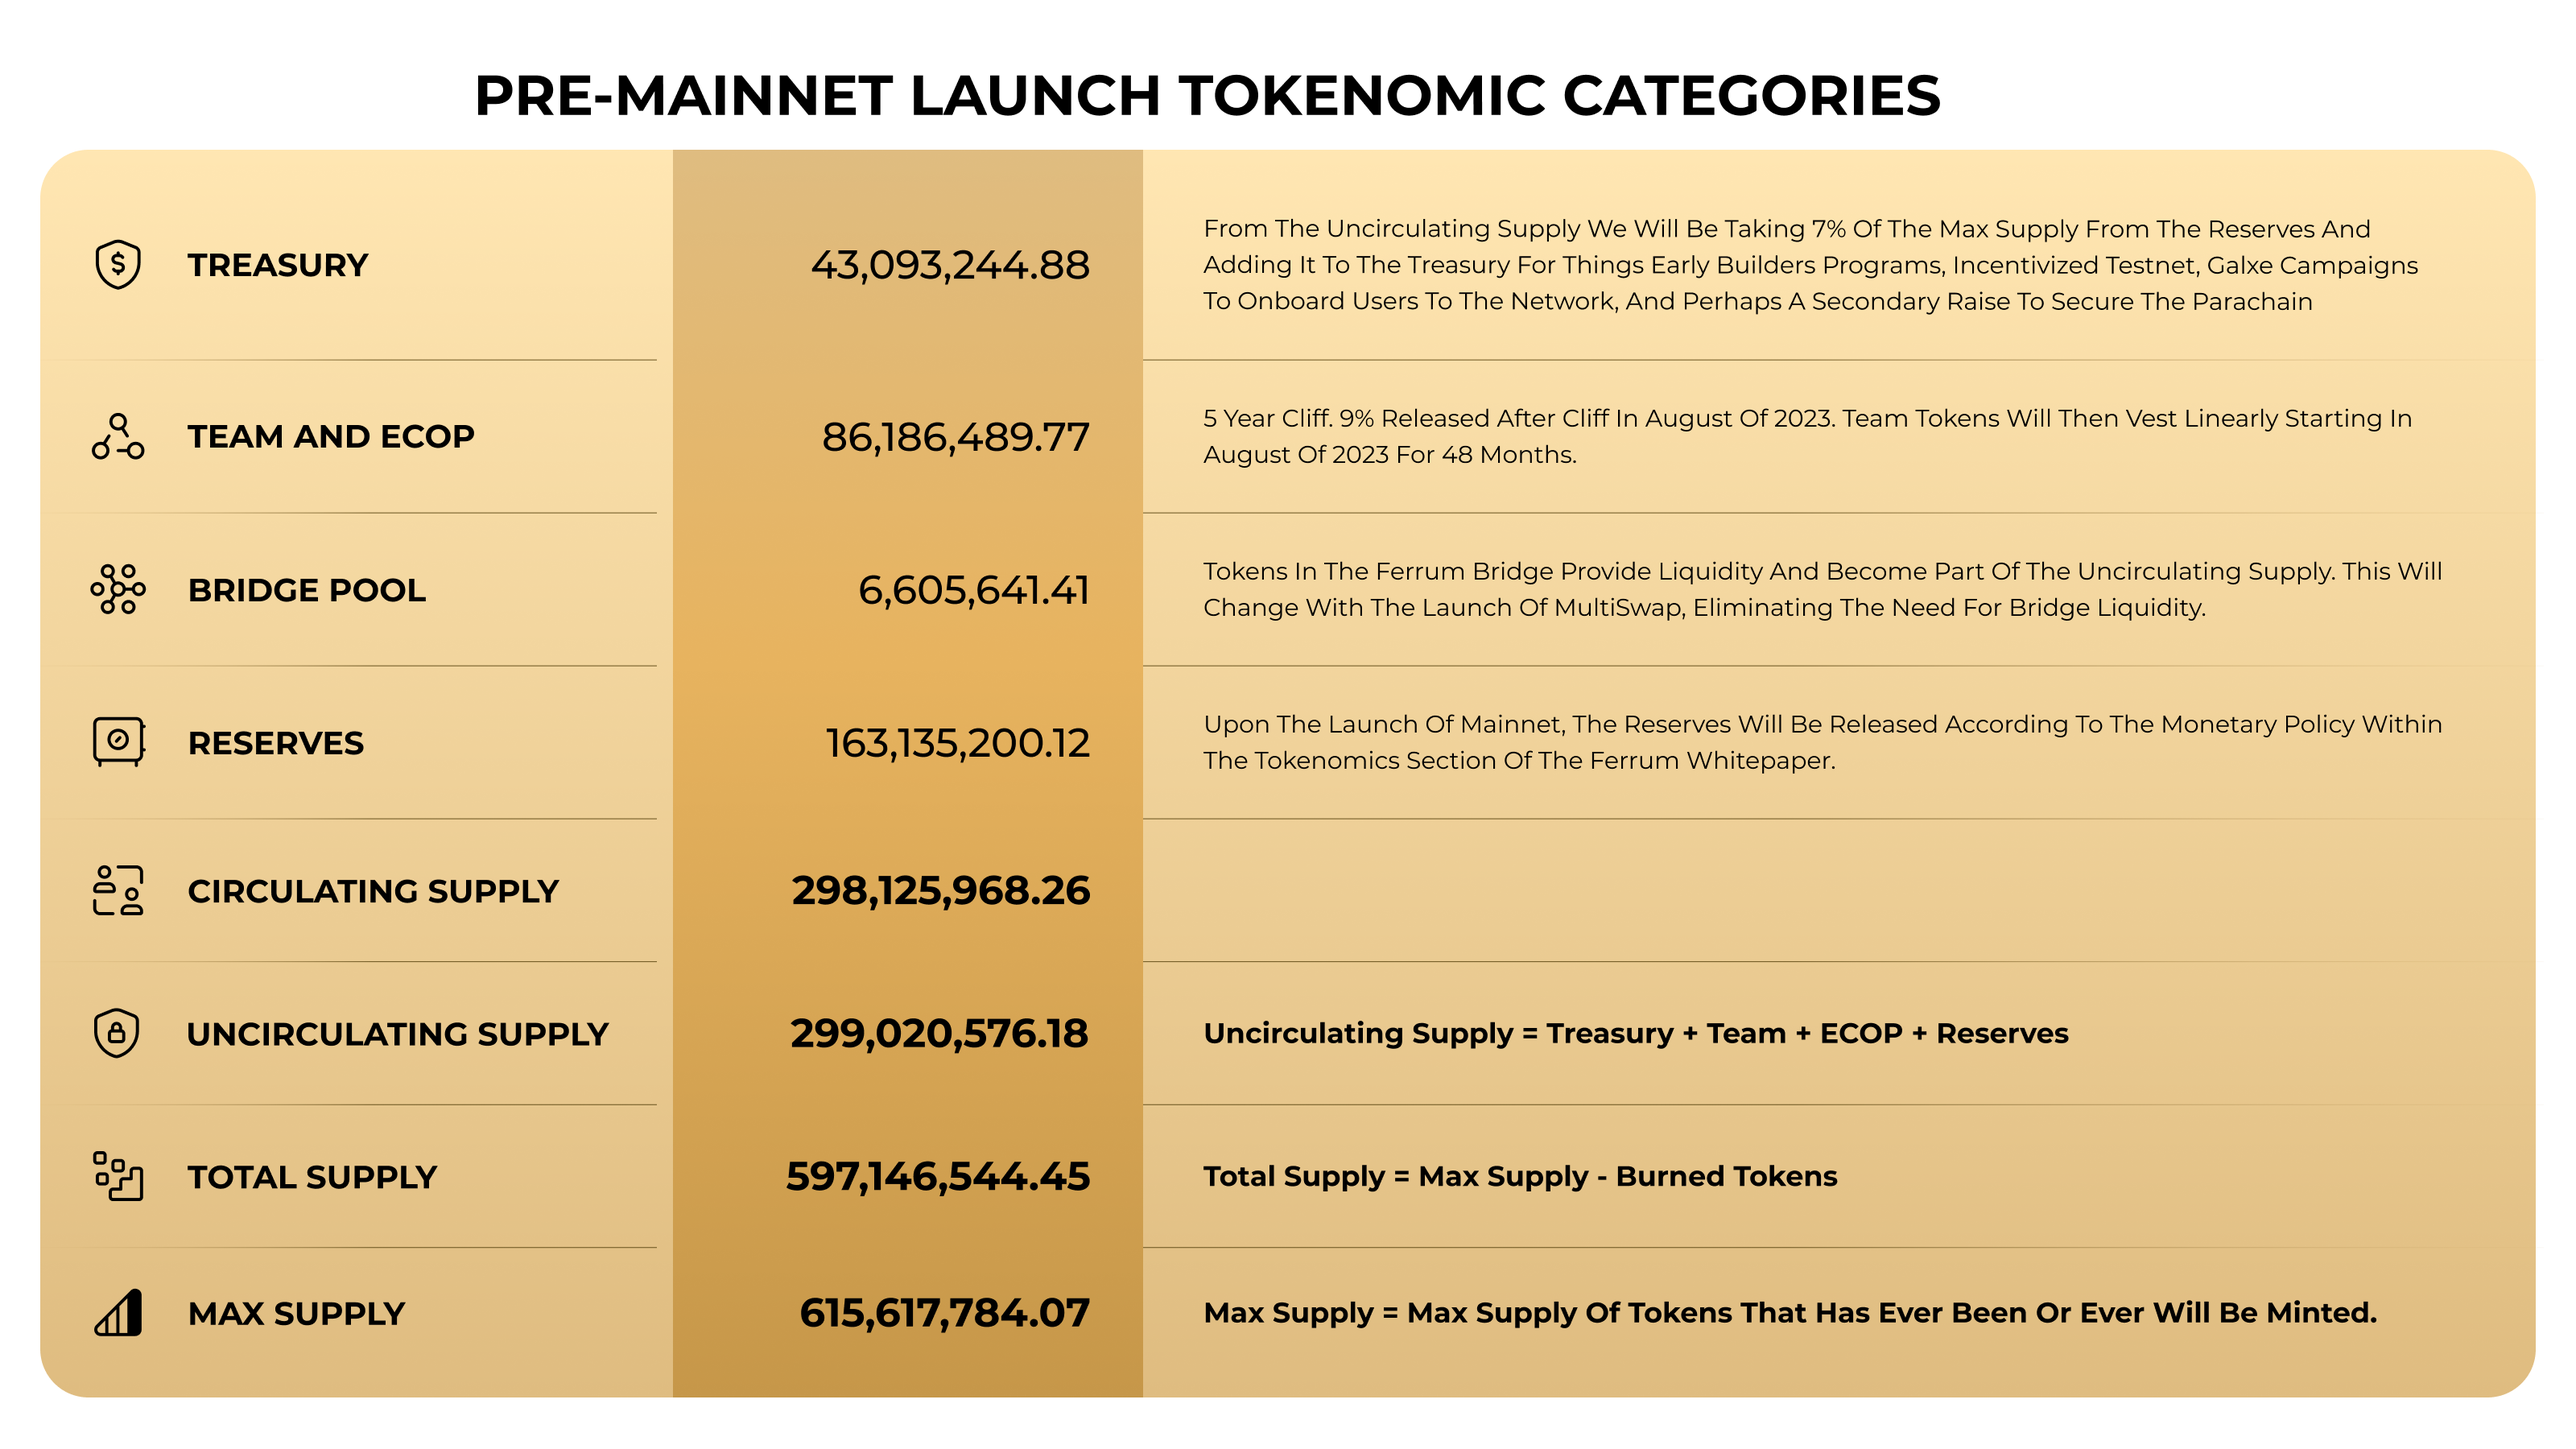
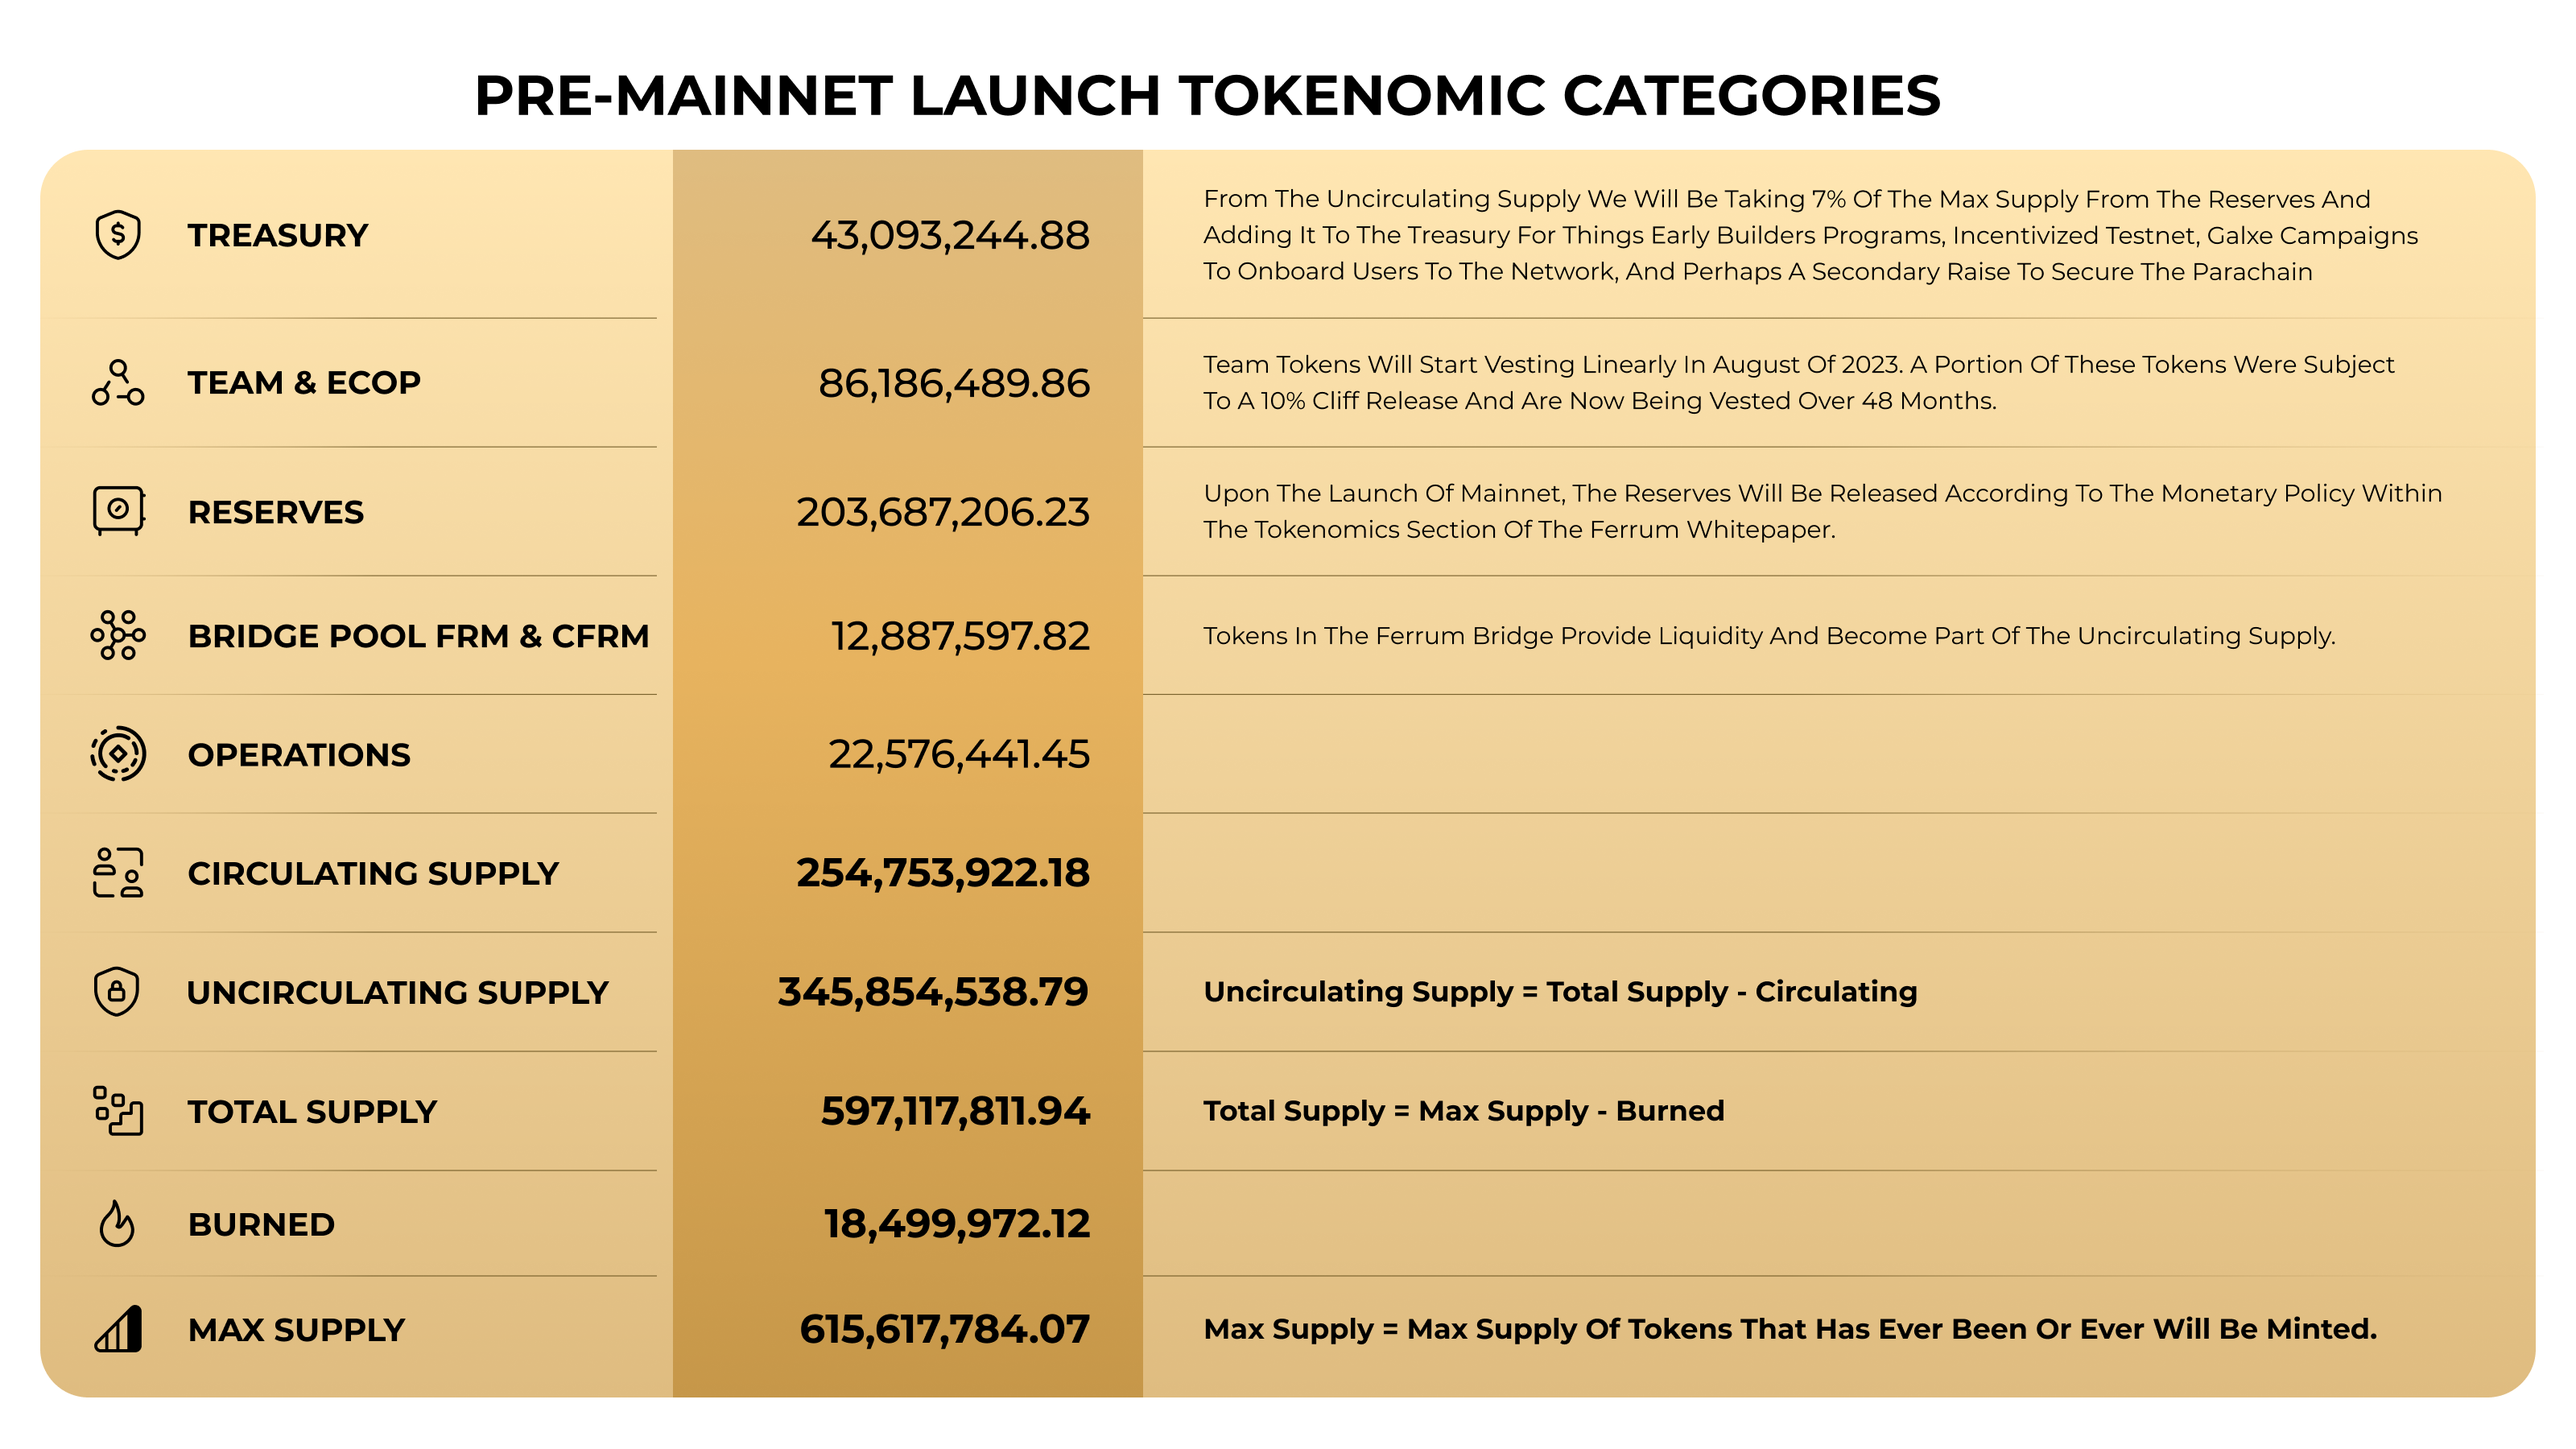
GITBOOK-165: New Tokenomic Category Infographic

diff --git a/tokenomics/token-categories.md b/tokenomics/token-categories.md
@@ -2,7 +2,9 @@
 
 ## Pre-Mainnet Launch Tokenomic Categories
 
-<figure><img src="../.gitbook/assets/image (4).png" alt=""><figcaption><p>Pre-mainnet Launch Tokenomic Categories</p></figcaption></figure>
+<figure><img src="../.gitbook/assets/image.png" alt=""><figcaption><p>Pre-Mainnet Launch Tokenomic Categories</p></figcaption></figure>
+
+<figure><img src="../.gitbook/assets/image (5).png" alt=""><figcaption><p>Pre-mainnet Launch Tokenomic Categories</p></figcaption></figure>
 
 ## **Treasury**
 
